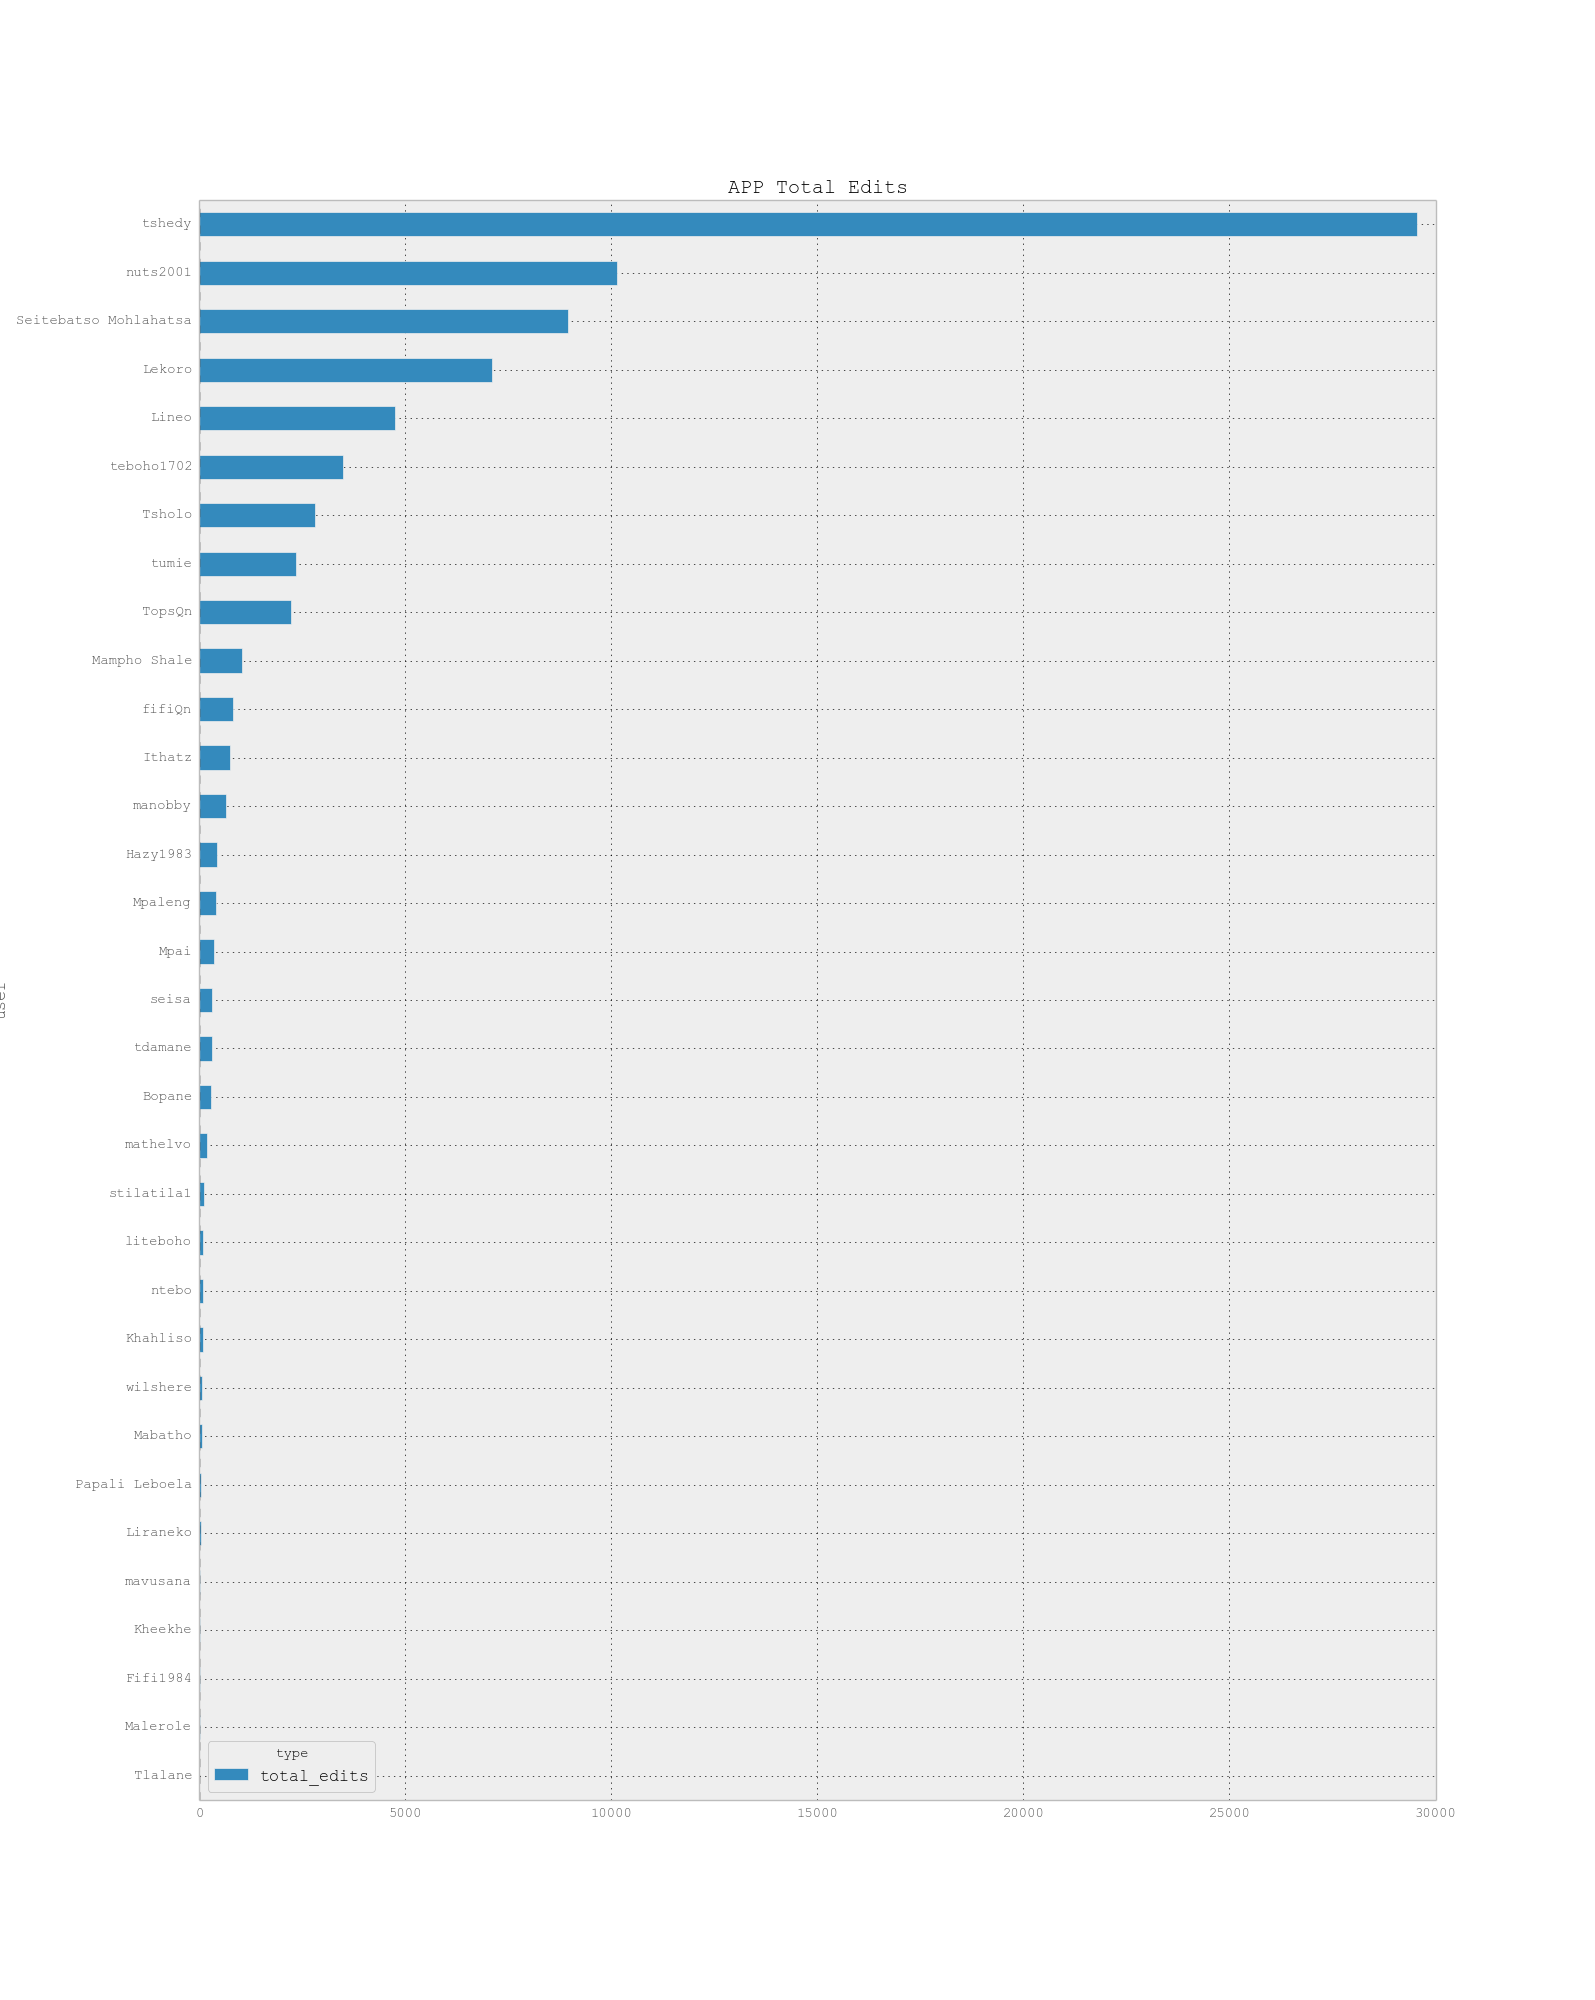
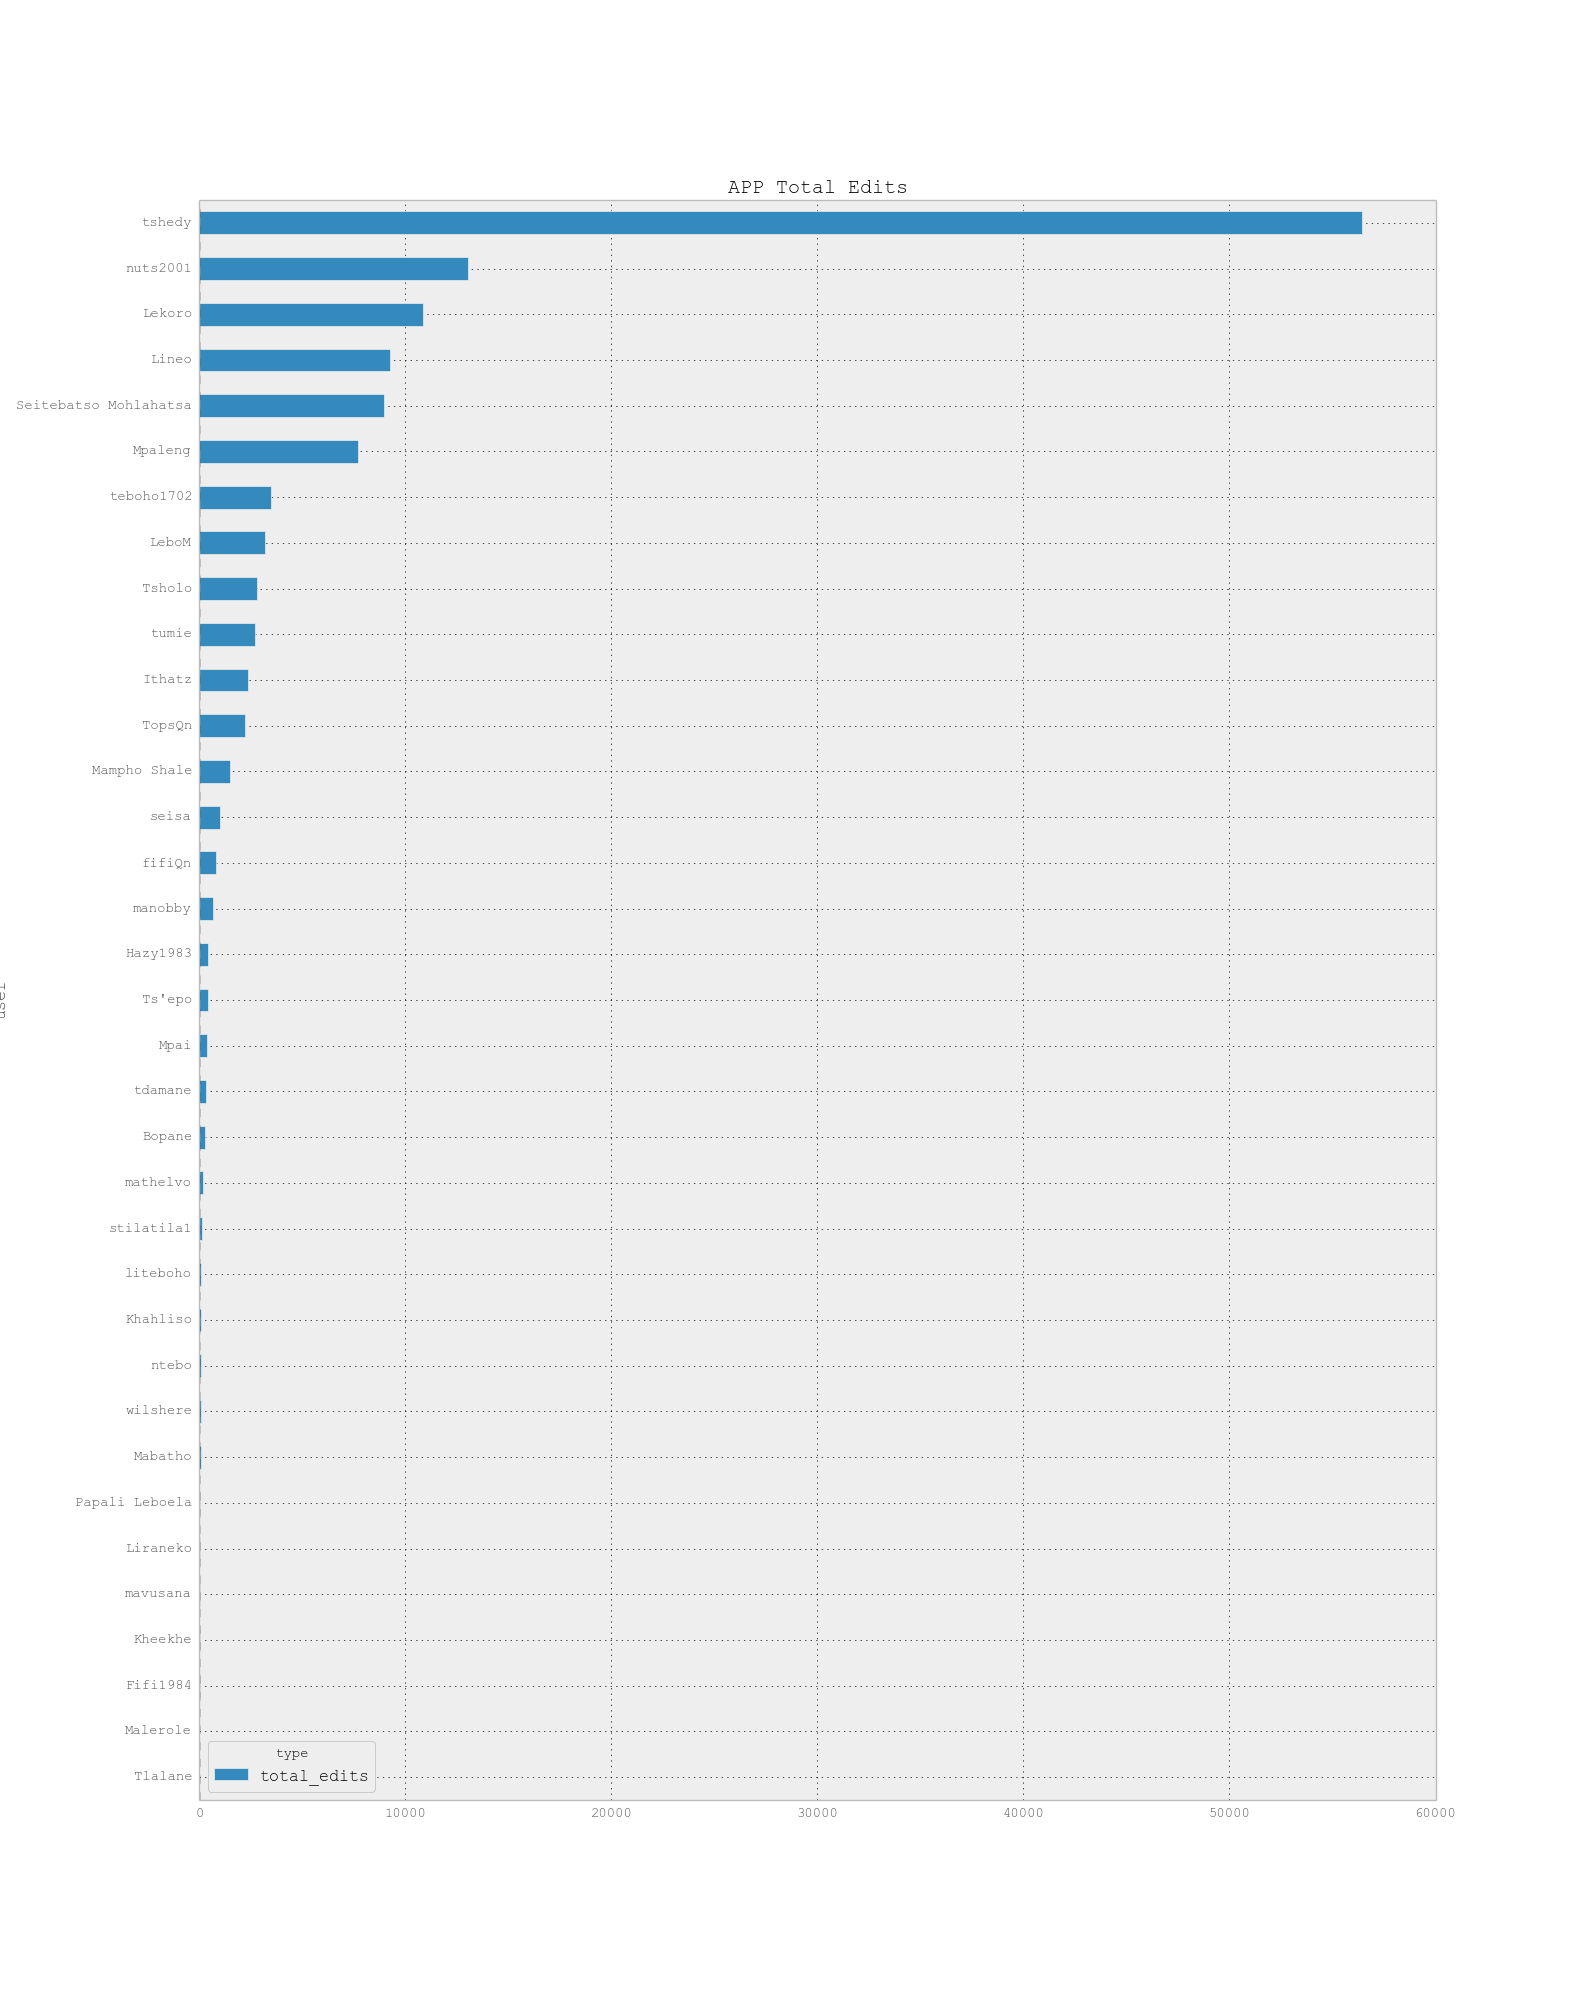
updated stats and mini webpage

diff --git a/index.html b/index.html
@@ -1,0 +1,25 @@
+
+<!DOCTYPE html>
+<html>
+<head>
+<meta charset=utf-8 />
+<title>#MapLesotho Key Stats</title>
+<link href='http://cdn.foundation5.zurb.com/foundation.css' rel='stylesheet' />
+
+<meta name='viewport' content='width=device-width, initial-scale=1.0, maximum-scale=1.0, user-scalable=no' />
+
+<body>
+
+<div class="row">
+	<div class="small-12 columns">
+		<h2>#MapLesotho User Stats</h2>
+		<p>Stats are collected from geofabrik changeset files. Use these graphs to track your progress in the <strong>#MapLesotho</strong> mapping competition with the grand prize of a smartphone curtosy of <a href="https://www.mapillary.com/"><strong>Mapillary</strong></a>.</p>
+		<div>
+    <a href="https://plot.ly/~rustyb/72/" target="_blank" title="#MapLesotho mappers by edits Feb 2015 to 18 July 2015" style="display: block; text-align: center;"><img src="https://plot.ly/~rustyb/72.png" alt="#MapLesotho mappers by edits Feb 2015 to 18 July 2015" style="max-width: 100%;width: 788px;"  width="788" onerror="this.onerror=null;this.src='https://plot.ly/404.png';" /></a>
+    <script data-plotly="rustyb:72"  src="https://plot.ly/embed.js" async></script>
+</div>
+
+	</div>
+</div>
+</body>
+</html>

diff --git a/get_monthly_stats.py b/get_monthly_stats.py
@@ -48,29 +48,29 @@ if len(les_apps) > 0:
 	# get monthly count of unique changesets
 	mon_un = les_apps.groupby(['user']).resample('M', how='nunique')[['changeset']] 
 	mon_un.columns = ['unique_changesets']
-
+	#
 	# get montly count of all changeset
 	mon_co = les_apps.groupby(['user']).resample('M', how='count')[['changeset']] 
 	mon_co.columns = ['total_edits']
-
+	#
 	# combine unqiue and total edits
 	app_mon_total = mon_un.join(mon_co).unstack()
-
+	#
 	# output to csv
 	app_mon_total.to_csv("montly_app_tracking.csv")
-	
+	#
 	app_yun = les_apps.groupby(['user']).resample('AS', how='nunique')[['changeset']].reset_index().set_index('user')
 	app_count = les_apps.groupby(['user']).resample('AS', how='count')[['changeset']].reset_index().set_index('user')
-
+	#
 	app_edits = les_apps[['user', 'type']].groupby(['user','type']).size()
 	ap_us = app_edits.unstack().fillna(0)
 	ap_us['total_edits'] = ap_us['create'] + ap_us['modify'] + ap_us['delete']
-
+	#
 	# combine mpaleng users
 	mape_users = ['Mpaleng Oliphant', 'Miss O']
 	new_tots = ap_us.reset_index()[ap_us.reset_index().user.isin(mape_users)].set_index('user').sum().values
 	ap_us.drop(mape_users, inplace=True)
-
+	#
 	ap_us = ap_us.reset_index()
 	ap_us.loc[len(ap_us)] = list(np.append(['Mpaleng'], new_tots))
 	ap_us.set_index('user', inplace=True)
@@ -80,7 +80,11 @@ if len(les_apps) > 0:
 	ap_us.sort('total_edits')[['create', 'modify', 'delete']].plot(kind='barh', stacked=True, title="APP Edits by Type", figsize=(20,20)).get_figure().savefig('app_edits_by_type.png')
 	ap_us.sort('total_edits', ascending=False).to_csv("app_total_edits_by_type.csv")
 
+
 sys.exit()
+
+ap_us.sort('total_edits')[['create', 'delete', 'modify']].iplot(filename='test 1',kind='barh', barmode='stack', title='#MapLesotho mappers by edits Feb 2015 to 18 July 2015',xTitle='Edits', yTitle='OSM Username')
+ap_us.sort('total_edits')[['create', 'delete', 'modify']].iplot(filename='test 1',kind='barh', barmode='stack', title='#MapLesotho mappers by edits Feb 2015 to 18 July 2015',xTitle='Edits', yTitle='OSM Username', colors=['rgba(31, 119, 180, 1)', 'rgba(255, 127, 14, 1)','rgba(44, 160, 44, 1)'], opacity='1',world_readable=True,bargap=0.0, width=0.0)
 
 # get some stats for all the users contributing to map_lesotho
 yn = lesa.groupby(['user']).resample('AS', how='nunique')[['changeset']].reset_index().set_index('user')
@@ -115,4 +119,5 @@ def f(s):
 yecapp = les_apps[['user', 'type']].groupby(['user','type']).size()
 yecapp.unstack().T.apply(f, axis=0).T.plot(kind='barh', stacked=True, title="APP '%' of edit type")
 
+#plot_url = py.plot_mpl(yecapp.unstack().T.apply(f, axis=0).T.plot(kind='barh', stacked=True, title="APP '%' of edit type"))
 
